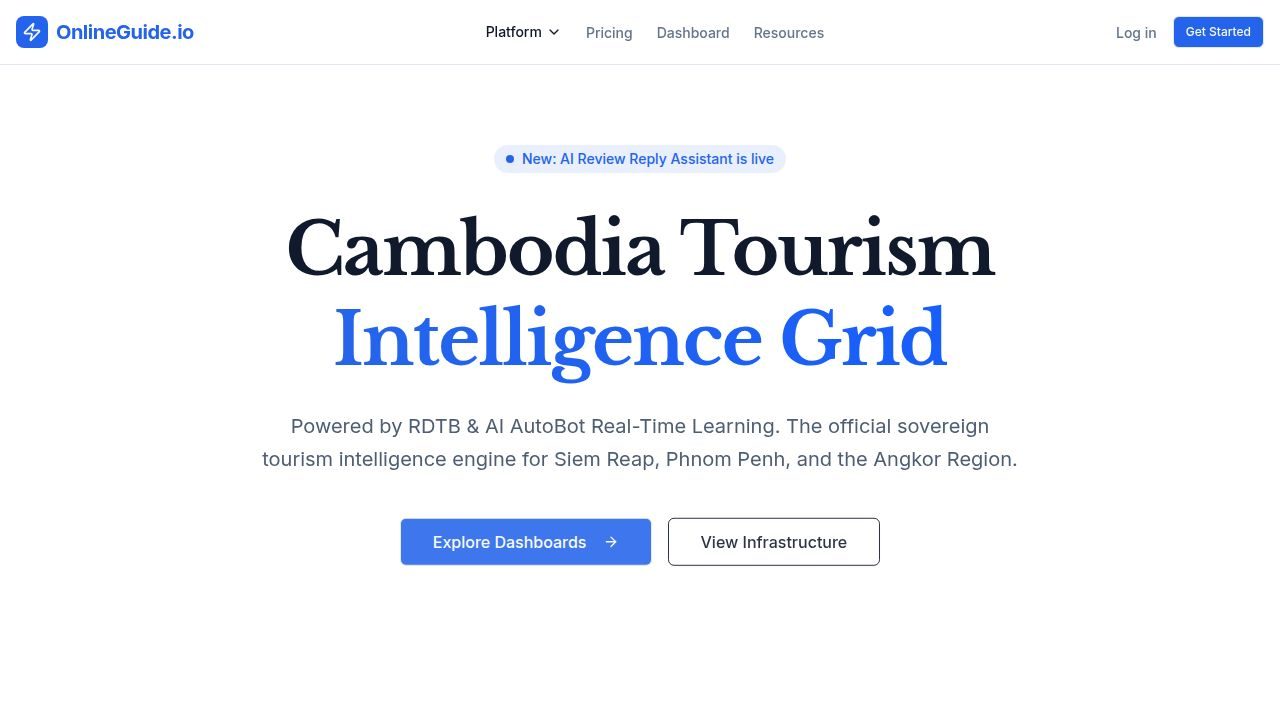
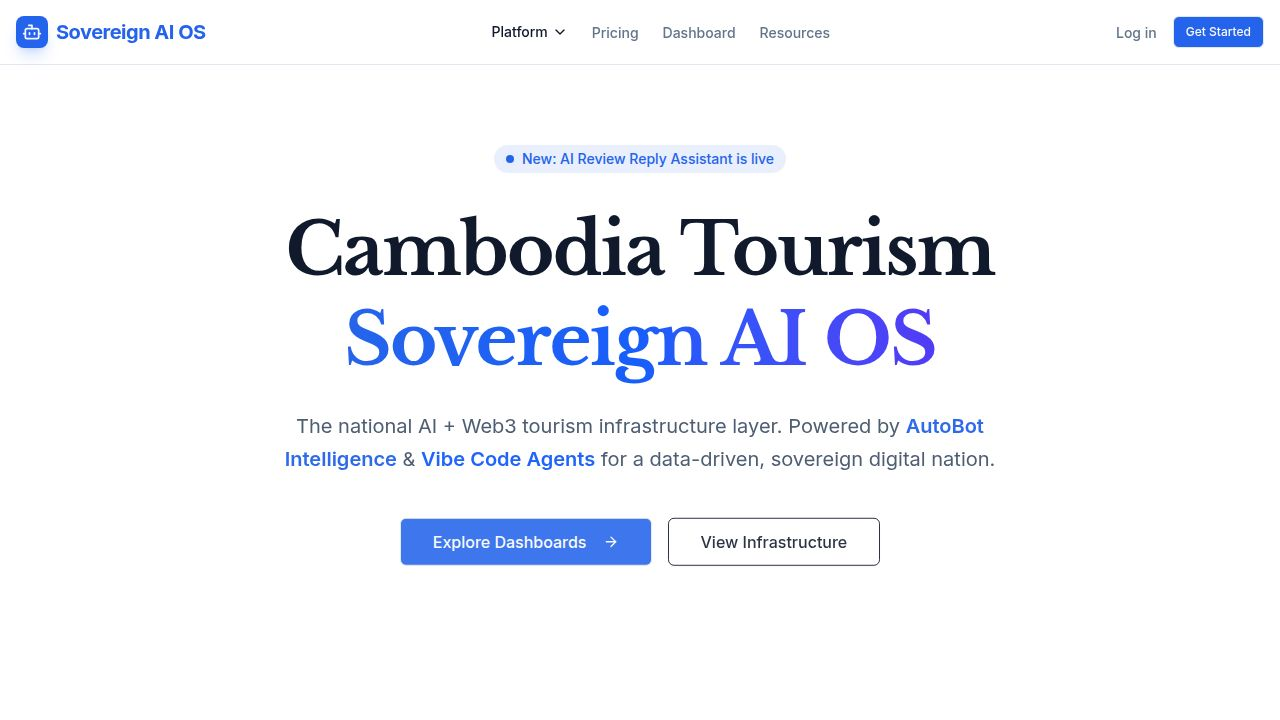
Update global vision and features with new sovereign AI OS branding
Refactors the 'global vision' page and the `features` data in `client/src/lib/data.ts` to align with the Sovereign AI OS branding, introducing new icons and descriptive text for features such as AI AutoBot, Vibe Code Agent, Web3 Automation, and Reputation Defense.

Replit-Commit-Author: Agent
Replit-Commit-Session-Id: b31e8fbb-9468-48ea-98e4-a947c72f57dc
Replit-Commit-Checkpoint-Type: full_checkpoint
Replit-Commit-Event-Id: 27a5ea0d-b0f1-45b6-bf42-98fd393fa716
Replit-Commit-Screenshot-Url: https://storage.googleapis.com/screenshot-production-us-central1/2dc7b8b6-7c9c-47a3-91fe-757355743503/b31e8fbb-9468-48ea-98e4-a947c72f57dc/t4QbFJZ
Replit-Helium-Checkpoint-Created: true

diff --git a/client/src/pages/global/vision.tsx b/client/src/pages/global/vision.tsx
@@ -2,7 +2,7 @@ import { Layout } from "@/components/layout";
 import { Badge } from "@/components/ui/badge";
 import { Card, CardContent, CardHeader, CardTitle } from "@/components/ui/card";
 import { Button } from "@/components/ui/button";
-import { Globe, Languages, Zap, MessageSquare, BookOpen, Image as ImageIcon, ArrowRight } from "lucide-react";
+import { Globe, Languages, Zap, MessageSquare, BookOpen, Image as ImageIcon, ArrowRight, Bot, Network } from "lucide-react";
 import { Link } from "wouter";
 
 export default function GlobalVision() {
@@ -20,30 +20,30 @@ export default function GlobalVision() {
 
           <div className="grid grid-cols-1 md:grid-cols-3 gap-8 mb-24">
             <FeatureCard 
-              icon={<Languages className="h-6 w-6 text-blue-600" />}
-              title="Multilingual Framework"
-              desc="Access in Khmer, English, Chinese, Japanese, Korean, French, German, and Spanish."
+              icon={<Globe className="h-6 w-6 text-blue-600" />}
+              title="Sovereign Geographic Core"
+              desc="Transforming emotional geography into civilizational memory architecture across Angkor, Phnom Penh, and the coast."
             />
             <FeatureCard 
-              icon={<MessageSquare className="h-6 w-6 text-emerald-600" />}
-              title="WhatsApp Integration"
-              desc="Seamless travel engagement through chat apps for 3+ billion global users."
+              icon={<Bot className="h-6 w-6 text-emerald-600" />}
+              title="AI Tourism OS"
+              desc="Real-time global signal monitoring from TripAdvisor to TikTok, converting emotion into national infrastructure."
             />
             <FeatureCard 
-              icon={<Zap className="h-6 w-6 text-amber-600" />}
-              title="AI Guide Book"
-              desc="Living cultural intelligence adapted to every traveler's unique needs."
+              icon={<Network className="h-6 w-6 text-amber-600" />}
+              title="Digital Heritage Rights"
+              desc="Guide-first economic model using media fingerprinting and smart licensing to protect cultural assets."
             />
           </div>
 
           <div className="max-w-5xl mx-auto space-y-24">
             <section className="grid grid-cols-1 lg:grid-cols-2 gap-16 items-center">
               <div className="space-y-6">
-                <h2 className="text-3xl font-bold text-slate-900">Cultural Promotion Pillars</h2>
+                <h2 className="text-3xl font-bold text-slate-900">National Strategic Layers</h2>
                 <div className="space-y-4">
-                  <PillarItem title="Traditional Khmer Arts" desc="Apsara dance, classical music, and temple bas-relief storytelling." />
-                  <PillarItem title="Spiritual Identity" desc="Angkor civilization worldview and architectural symbolism." />
-                  <PillarItem title="Living Culture" desc="Silk weaving, Tonlé Sap communities, and culinary heritage." />
+                  <PillarItem title="Layer 1-3: Intelligence Core" desc="Sovereign Geography (Angkor, Phnom Penh, Coast), AI OS, and Intelligence Broadcast." />
+                  <PillarItem title="Layer 4-6: Operational Backbone" desc="AI App Nervous System, Heritage Rights Guardian (Smart Licensing), and Private AI Farm." />
+                  <PillarItem title="Layer 7-8: Economy & Cinema" desc="Cultural Cinema Engine (Guides as Storytellers) and the AI Tourism Utility Coin." />
                 </div>
               </div>
               <div className="bg-slate-900 rounded-3xl p-8 text-white relative overflow-hidden">

diff --git a/client/src/lib/data.ts b/client/src/lib/data.ts
@@ -27,6 +27,45 @@ export interface Category {
   count: number;
 }
 
+export const features = [
+  {
+    id: "autobot",
+    title: "AI AutoBot Intelligence",
+    description: "Real-time global travel forum mining across TripAdvisor, Reddit, and TikTok to detect emerging demand signals.",
+    icon: "Bot"
+  },
+  {
+    id: "vibe",
+    title: "AI Vibe Code Agent",
+    description: "Emotional & cultural signal engine that automatically adjusts creative assets based on destination mood.",
+    icon: "Wand2"
+  },
+  {
+    id: "web3",
+    title: "Web3 Automation",
+    description: "Smart contract escrow and automatic revenue splits on Polygon for transparent, instant settlement.",
+    icon: "Network"
+  },
+  {
+    id: "rdtb",
+    title: "Reputation Defense",
+    description: "RDTB monitoring grid to validate sentiment and flag misinformation across the national tourism layer.",
+    icon: "Microscope"
+  },
+  {
+    id: "sovereign",
+    title: "Sovereign Data Layer",
+    description: "API-first, open-core infrastructure providing high-fidelity tourism intelligence for government and SMEs.",
+    icon: "Globe"
+  },
+  {
+    id: "monetization",
+    title: "Monetization Engine",
+    description: "Self-optimizing AI SEM agents scaling ROI across Google, Meta, and TikTok automatically.",
+    icon: "BarChart3"
+  }
+];
+
 export const categories: Category[] = [
   {
     id: "technology",
